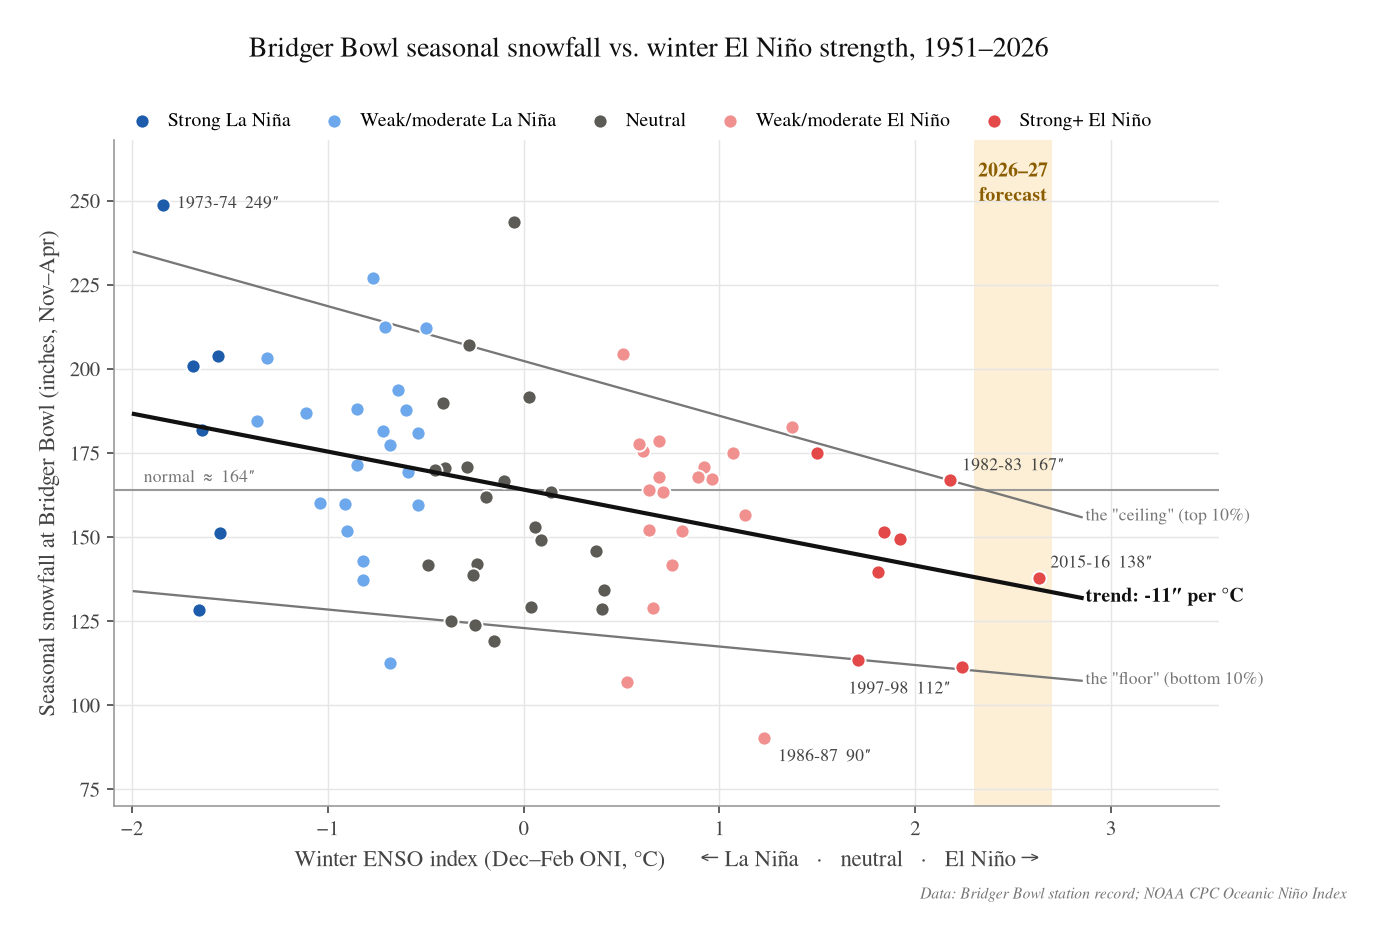
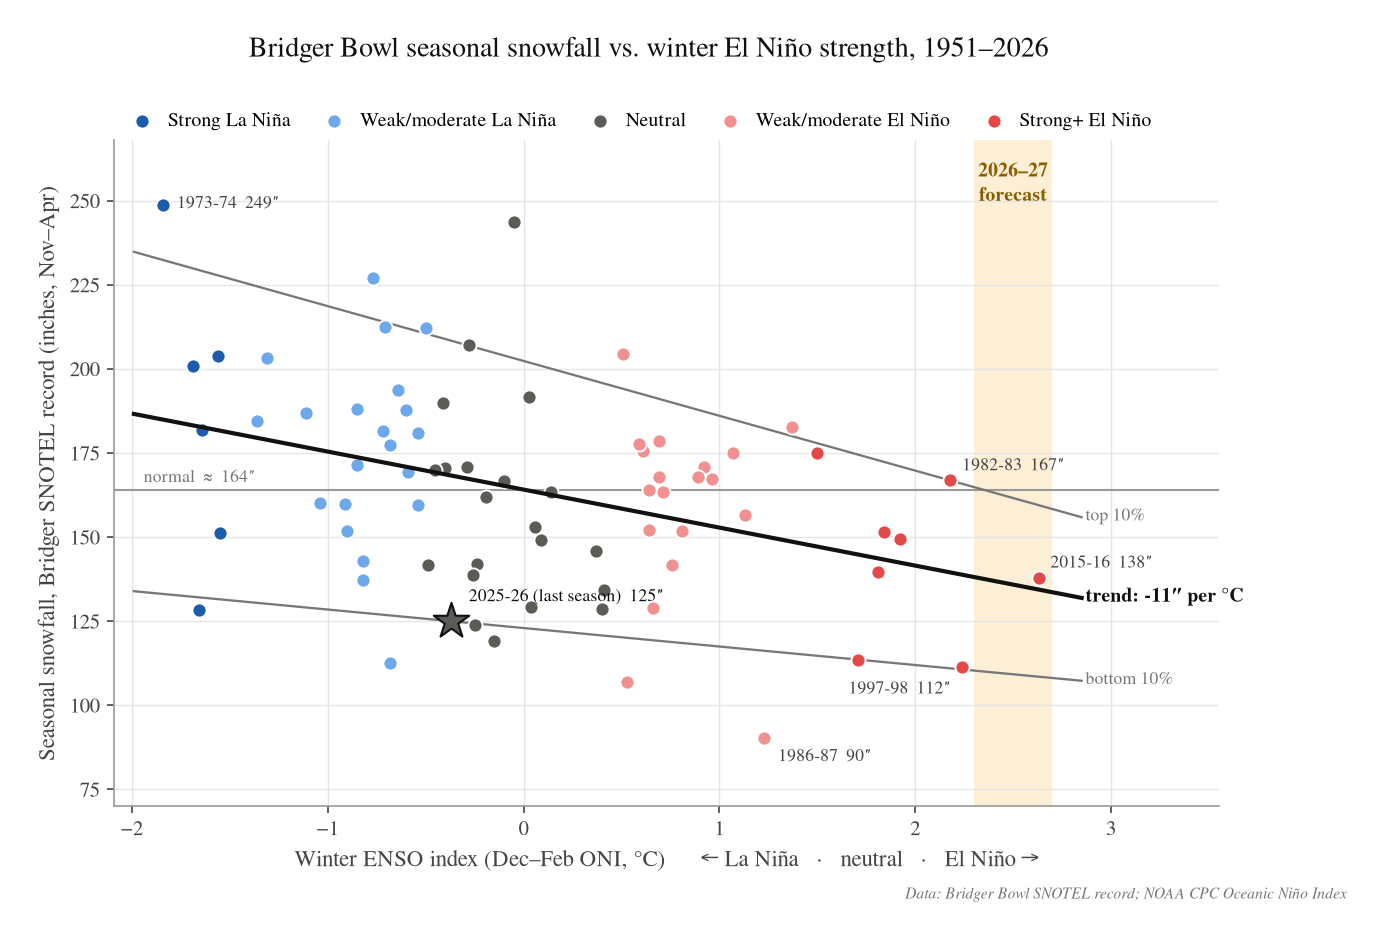
post: SNOTEL-vs-snow-report caveat; tercile tiers; figure touch-ups
Add 'a note on the numbers' (SNOTEL record vs Bridger's board: last six
winters 10-100% higher, ~45% typical) and credit the SNOTEL record in the
figures. Fig 2 tiers are now CPC-style terciles of the 76 winters
(150"/175") instead of 130/200; post bullets aligned. Fig 1: star for
last season, 'top/bottom 10%' labels. Fig 6: legend replaces text boxes.

diff --git a/posts/2026-09-06-el-nino-and-bridger-bowl-record-winter.md b/posts/2026-09-06-el-nino-and-bridger-bowl-record-winter.md
@@ -31,10 +31,19 @@ went from 69% in August to 75% now.
 
 So it's a fair question for anyone with a Bridger pass: what does a big El
 Niño — let alone a record one — actually do to our snow? We joined all
-**76 seasons** of the station record behind this site (WY1951–2026) to the
+**76 seasons** of the SNOTEL record behind this site (WY1951–2026) to the
 CPC's Oceanic Niño Index and let the data talk. Short version: **El Niño
 tilts the odds against us — modestly, measurably, and mostly by deleting the
 blower years.**
+
+*A note on the numbers.* The snowfall totals in this post come from the long
+**Bridger Bowl SNOTEL record** (Brackett Creek, mid-mountain, extended back to
+1950 with the nearby co-op station): the daily change in snow depth, measured
+once a day after the snow has settled. Bridger's snow report measures higher
+on the hill and clears its board more often, so its totals run higher — over
+the last six winters anywhere from 10% to 100% more, typically about 45%. So
+don't line these inches up against the snow report. Read the results as
+percentages of normal and as odds; those don't depend on the ruler.
 
 ## The relationship, in one scatter
 
@@ -58,15 +67,20 @@ La Niña winters; just 5 in El Niño winters.
 
 ![Share of lean, normal, and blower winters by El Niño / La Niña state](https://coldsmokereport.github.io/coldsmoke/assets/images/2026-09-12/02_odds.png)
 
-Sorting all 76 winters into five ENSO bins (whiskers are honest 95%
-confidence intervals — small samples make for wide bars):
+Sorting all 76 winters into five ENSO bins, and splitting each bin into
+below-normal, near-normal, and above-normal thirds (under 150″, 150–175″,
+and over 175″ in the SNOTEL record):
 
-- **P(below-median season)** climbs from ~33% in La Niña to **~75% in
+- **Above-normal winters** go from **two-thirds** of strong La Niña winters
+  (57% of weak-to-moderate ones) to 18% in neutral years to **zero of the
+  eight** strong+ El Niño winters.
+- **Below-normal winters** climb from ~15% under La Niña to **62% under
   strong+ El Niño.**
-- **P(200″+ blower year)**: ~50% in strong La Niña, ~9% in neutral, and
-  **~0–5% in strong+ El Niño.**
-- **P(lean year, under 130″)**: rises to **~25–30%** in strong+ El Niño —
-  elevated, but far from a guarantee of misery.
+- The extremes tell the same story: half of the strong La Niña winters
+  topped 200″ and none of the strong+ El Niño winters did, while the odds of
+  a genuinely lean year (under 130″) rise to **~25–30%** under strong El Niño
+  — elevated, but far from a guarantee of misery. (Six and eight winters are
+  small groups; treat these shares as rough.)
 
 Mean seasonal totals run 143″ (strong+ El Niño) → 158″ (neutral) → 186″
 (strong La Niña), against the 164″ climo mean. And a detail worth sitting
@@ -163,7 +177,8 @@ Think snow anyway.
 ---
 
 *Methods: DJF Oceanic Niño Index (CPC), 76 usable Bridger seasons (Nov–Apr
-totals) from the station record behind this site. Probability bins use Wilson
+totals) from the Bridger Bowl SNOTEL record behind this site (Brackett Creek,
+extended to 1950 with the nearby co-op station). Probability bins use Wilson
 intervals; group differences tested with Mann-Whitney, permutation, and
 bootstrap methods; composites are reanalysis anomalies vs a smoothed
 day-of-year climatology (the research versions carry bootstrap stippling).
